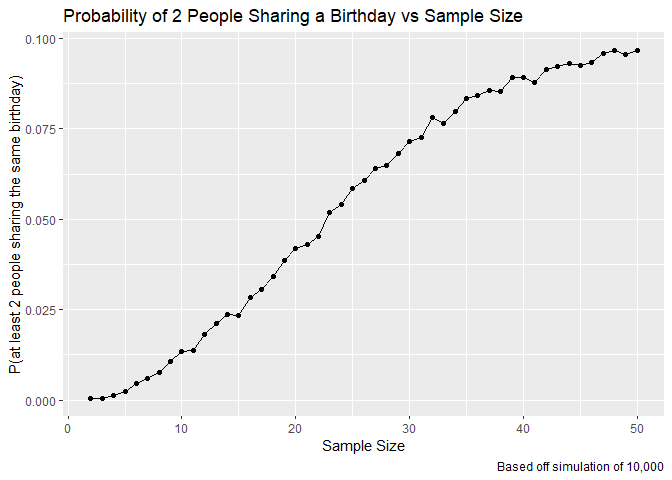
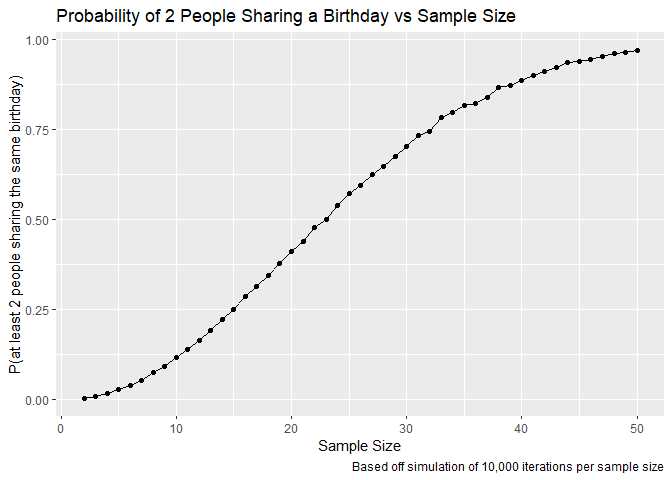
added decriptions to each problem

diff --git a/HW5.md b/HW5.md
@@ -1,4 +1,4 @@
-hw5
+HW5
 ================
 Adeena Moghni
 2024-11-10
@@ -16,13 +16,14 @@ birthday_sim = function(n){
 sim_results_df = 
   expand_grid(
     sample_size = 2:50,
-    iter = 1:1000
+    iter = 1:10000
   ) %>% 
   mutate(
     birthday_sim_df = map(sample_size, birthday_sim)
   ) %>% 
   unnest(birthday_sim_df) %>% 
   group_by(sample_size) %>% 
+  
   summarize(
     total = sum(birthday_sim_df),
     probability = total/10000)
@@ -32,40 +33,37 @@ ggplot(sim_results_df, aes(x = sample_size, y = probability)) +
   labs(x = "Sample Size", 
        y = "P(at least 2 people sharing the same birthday)",
        title = "Probability of 2 People Sharing a Birthday vs Sample Size",
-       caption = "Based off simulation of 10,000"
+       caption = "Based off simulation of 10,000 iterations per sample size"
        )
 ```
 
 ![](HW5_files/figure-gfm/unnamed-chunk-2-1.png)<!-- -->
 
+As expected, the probability of 2 people sharing a birthday increases as
+sample size increases. Surprisingly, though, is that only about 50
+people are needed for the probability of 2 people sharing a birthday in
+that group becoming 100%.
+
 ## Problem 2
 
 ``` r
-power_sim = function(sample_mu){
-    x = rnorm(n = 30, mean = sample_mu, sd = 5)
+power_sim = function(true_mu){
+    x = rnorm(n = 30, mean = true_mu, sd = 5)
     t_test_result= t.test(x, mu = 0, conf.level = .95)
     tibble(xbar = mean(x), 
            p_value = t_test_result$p.value)
 }
-
-mu_0 = power_sim(sample_mu = 0)
-print(mu_0)
 ```
-
-    ## # A tibble: 1 × 2
-    ##    xbar p_value
-    ##   <dbl>   <dbl>
-    ## 1 0.411   0.684
 
 ``` r
 simulation_results_df = 
   expand_grid(
-    sample_mu = c(1, 2, 3, 4, 5, 6),
+    true_mu = c(0, 1, 2, 3, 4, 5, 6),
     iter = 1:5000
   ) %>% 
-  group_by(sample_mu) %>%
+  group_by(true_mu) %>%
   mutate(
-    power_sim_df = map(sample_mu, power_sim)
+    power_sim_df = map(true_mu, power_sim)
   ) %>% 
   unnest(power_sim_df)
 ```
@@ -73,13 +71,14 @@ simulation_results_df =
 ``` r
 power_graphing_df = 
   simulation_results_df %>% 
-  group_by(sample_mu) %>% 
+  group_by(true_mu) %>% 
   summarize(
     total = sum(p_value < .05),
     proportion = total/5000)
 
-ggplot(power_graphing_df, aes(x = sample_mu, y = proportion)) +
+ggplot(power_graphing_df, aes(x = true_mu, y = proportion)) +
   geom_point() + geom_line() +
+  scale_x_continuous(breaks = c(0, 1, 2, 3, 4, 5, 6)) +
   labs(x = "True Average", 
        y = "Power",
        title = "Effect Size vs Power"
@@ -88,10 +87,17 @@ ggplot(power_graphing_df, aes(x = sample_mu, y = proportion)) +
 
 ![](HW5_files/figure-gfm/unnamed-chunk-5-1.png)<!-- -->
 
+As the true value of $\mu$ increases, the likelihood of the datasets
+having a sample mean value of 0 decreases and moves farther and farther
+away from 0. Thus, at an alpha value of .05, the probability of
+rejecting the null of $\mu$ = 0 increases until it reaches 1 at $\mu$ =
+5. In other words, the effect size increases as $\mu$ increases since we
+set the null hypothesis as $\mu$ = 0, thereby increasing the power.
+
 ``` r
 xbar_df = 
   simulation_results_df %>% 
-  group_by(sample_mu) %>%
+  group_by(true_mu) %>%
   summarize(
     avg_all_xbar = mean(xbar)
   )
@@ -99,7 +105,7 @@ xbar_df =
 xbar_reject_df = 
   simulation_results_df %>%
   filter(p_value < .05) %>% 
-  group_by(sample_mu) %>%
+  group_by(true_mu) %>%
   summarize(
     avg_rejected_xbar = mean(xbar)
   )
@@ -108,22 +114,35 @@ xbar_graphing_df =
   left_join(
     xbar_df,
     xbar_reject_df,
-    by = "sample_mu"
+    by = "true_mu"
   ) %>% 
   pivot_longer(
     cols = avg_all_xbar:avg_rejected_xbar, 
     names_to = "classification", 
     values_to = "average_xbar")
 
-ggplot(xbar_graphing_df, aes(x = sample_mu, y = average_xbar, color = classification)) +
+ggplot(xbar_graphing_df, aes(x = true_mu, y = average_xbar, color = classification)) +
   geom_point() + geom_line() +
+  scale_x_continuous(breaks = c(0, 1, 2, 3, 4, 5, 6)) +
   labs(x = "True Average", 
-       y = "Average Sample Average",
+       y = "Average Sample Mean",
        title = "Sample vs True Average"
        )
 ```
 
 ![](HW5_files/figure-gfm/unnamed-chunk-6-1.png)<!-- -->
+
+As seen from the graph, the sample mean for all samples starts off lower
+than sample means of rejected samples when $\mu$ is lower. This is
+because $\mu$ is closer to 0, which is what we are comparing against in
+our t tests (i.e. the null hypothesis state $\mu$ = 0). Thus, only the
+samples that have sample means that fall within the rejection region
+(samples with sample means that are extremely high or extremely low)
+will be rejected. As $\mu$ increases, the likelihood of sample means
+falling within this rejection region increases, and as seen in the
+previous graph, the proportion of samples that are rejected reaches 1.
+Because of this, the average of all sample means and the average of
+rejected sample means overlap as $\mu$ increases to 4, 5, and 6.
 
 ## Problem 3
 
@@ -147,6 +166,11 @@ homicide_df =
     ## 
     ## ℹ Use `spec()` to retrieve the full column specification for this data.
     ## ℹ Specify the column types or set `show_col_types = FALSE` to quiet this message.
+
+The data on homicides by city has 52179 rows by 14 columns. The
+variables to describe the data are: uid, reported_date, victim_last,
+victim_first, victim_race, victim_age, victim_sex, city, state, lat,
+lon, disposition, city_state, status
 
 ``` r
 totals_df = 
